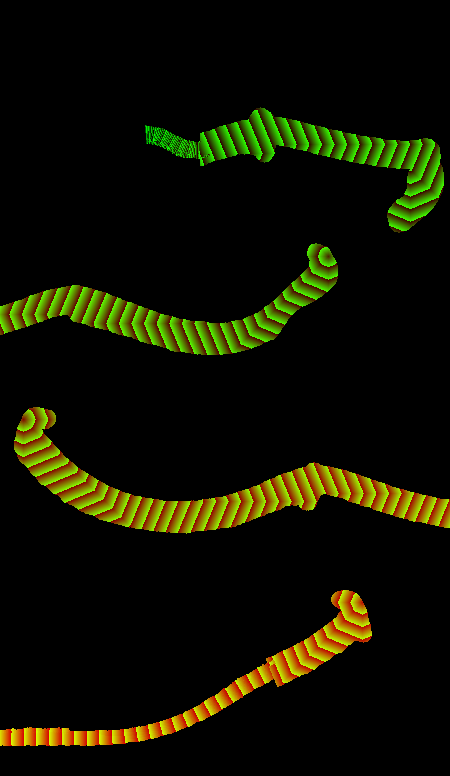
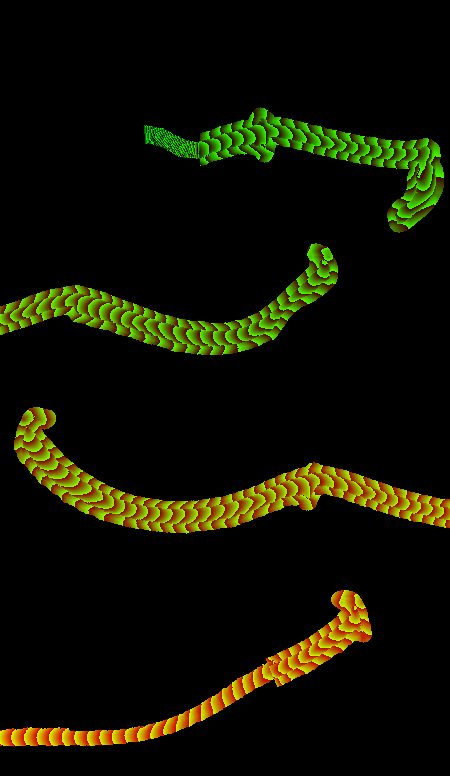
Tutto chiaro e monocromatico; capo tondo per il filo di lana
Claude-Session: https://claude.ai/code/session_01K8S9kDcMmADtdHMs7poTsz

diff --git a/assets/js/cuciture.js b/assets/js/cuciture.js
@@ -5,7 +5,7 @@
    cucitura sale nello schermo. La prima parte da sinistra, dove esce il filo della matassa.
    Il filo e' disegnato su un canvas con la lana vera della foto (assets/img/matassa/lana.webp:
    una striscia di filo dritto, lungo il filo in orizzontale, 2 righe per pixel di
-   traverso), stesa a fettine lungo un'onda diversa per ogni cucitura.
+   traverso), stesa a fettine lungo un'onda diversa per ogni cucitura; il capo e' tondo.
    Con prefers-reduced-motion il filo e' gia' tutto. */
 (function () {
   'use strict';
@@ -38,8 +38,11 @@
     if (!w || !lana.naturalWidth) return;
     var dpr = Math.min(2, window.devicePixelRatio || 1);
     s.larga = w;
-    s.c.width = Math.round(w * dpr); s.c.height = Math.round(ALTO * dpr);
-    var ctx = s.c.getContext('2d');
+    // il filo intero si stende su un canvas fuori pagina; quello visibile ne mostra un pezzo
+    if (!s.tela) s.tela = document.createElement('canvas');
+    s.tela.width = s.c.width = Math.round(w * dpr); s.tela.height = s.c.height = Math.round(ALTO * dpr);
+    s.clip = null;
+    var ctx = s.tela.getContext('2d');
     ctx.setTransform(1, 0, 0, 1, 0, 0);
     ctx.clearRect(0, 0, s.c.width, s.c.height);
     var spesso = (w < 640 ? 10 : 13) * dpr;            // spessore del filo sullo schermo
@@ -48,6 +51,7 @@
     var L = lana.naturalWidth, Hs = lana.naturalHeight, P = L - GIUNTA - 2 * MARGINE;
     var lambda = s.onda * Math.max(w, 700) * dpr, A = s.ampiezza * dpr, mezzo = ALTO * dpr / 2;
     function y(x) { return mezzo + A * Math.sin(2 * Math.PI * x / lambda + s.fase) + s.pendenza * dpr * (x / (w * dpr) - 0.5); }
+    s.y = y; s.raggio = spesso / 2 + dpr;
     var x = -30 * dpr, fine = (w + 30) * dpr, u = 0, px = x, py = y(x);
     while (x < fine) {
       // un passo di 1 px lungo il filo
@@ -69,15 +73,30 @@
     ctx.setTransform(1, 0, 0, 1, 0, 0);
   }
 
+  // il capo del filo e' tondo: si mostra il filo fino al capo piu' un cerchio largo quanto il filo
   function svela(s) {
+    if (!s.tela) return;
     var p = 1;
     if (!ridotto) {
       var b = s.el.getBoundingClientRect(), vh = window.innerHeight;
       p = Math.min(1, Math.max(0, (vh * 0.95 - b.top) / (vh * 0.55)));
     }
-    var resto = ((1 - p) * 100).toFixed(2) + '%';
-    var clip = s.verso === 'dx' ? 'inset(0 ' + resto + ' 0 0)' : 'inset(0 0 0 ' + resto + ')';
-    if (s.clip !== clip) { s.clip = clip; s.c.style.clipPath = s.c.style.webkitClipPath = clip; }
+    var chiave = p.toFixed(4);
+    if (s.clip === chiave) return;
+    s.clip = chiave;
+    var W = s.c.width, H = s.c.height, ctx = s.c.getContext('2d');
+    ctx.clearRect(0, 0, W, H);
+    if (p <= 0) return;
+    if (p >= 1) { ctx.drawImage(s.tela, 0, 0); return; }
+    var capo = s.verso === 'dx' ? W * p : W * (1 - p);
+    ctx.save();
+    ctx.beginPath();
+    if (s.verso === 'dx') ctx.rect(0, 0, capo, H); else ctx.rect(capo, 0, W - capo, H);
+    ctx.moveTo(capo + s.raggio, s.y(capo));
+    ctx.arc(capo, s.y(capo), s.raggio, 0, Math.PI * 2);
+    ctx.clip();
+    ctx.drawImage(s.tela, 0, 0);
+    ctx.restore();
   }
 
   var attesa = false;

diff --git a/index.html b/index.html
@@ -20,7 +20,7 @@
 <link rel="preload" as="font" type="font/woff2" href="assets/fonts/jost-300-latin.woff2" crossorigin>
 <link rel="preload" as="font" type="font/woff2" href="assets/fonts/cormorant-garamond-300-latin.woff2" crossorigin>
 <link rel="preload" as="font" type="font/woff2" href="assets/fonts/cormorant-garamond-300-italic-latin.woff2" crossorigin>
-<link rel="stylesheet" href="assets/css/site.css?v=20261003c">
+<link rel="stylesheet" href="assets/css/site.css?v=20261003e">
 <!-- senza JavaScript il calendario e il menu non funzionano: meglio non mostrarli -->
 <noscript><style>[data-ics],.burger{display:none!important}</style></noscript>
 </head>
@@ -100,7 +100,7 @@
   </div>
 </header>
 
-<section class="block dark notte" id="festival" data-world="dark">
+<section class="block paper" id="festival" data-world="paper">
   <div class="cucitura" aria-hidden="true"></div>
   <div class="wrap article" style="grid-template-columns:1fr">
     <div>
@@ -232,7 +232,7 @@
   </div>
 </section>
 
-<section class="block dark notte" id="programma" data-world="dark">
+<section class="block paper" id="programma" data-world="paper">
   <div class="cucitura" aria-hidden="true"></div>
   <div class="wrap">
     <div class="head rv"><div><p class="eyebrow">Programma</p><h2>Tre <em>giorni</em></h2></div><p class="lede">Tre giorni alla Pescheria Nuova, a ingresso libero. Alcune cose restano aperte per tutta la durata del festival, le altre hanno il loro orario.</p></div>
@@ -344,7 +344,7 @@
   </div>
 </section>
 
-<section class="block dark notte" id="info" data-world="dark">
+<section class="block paper" id="info" data-world="paper">
   <div class="cucitura" aria-hidden="true"></div>
   <div class="wrap">
     <div class="head rv"><div><p class="eyebrow">Info</p><h2>Informazioni <em>pratiche</em></h2></div></div>
@@ -494,7 +494,7 @@
   </div>
 </section>
 
-<section class="block dark notte call-band" id="sostieni" data-world="dark">
+<section class="block paper call-band" id="sostieni" data-world="paper">
   <div class="cucitura" aria-hidden="true"></div>
   <div class="wrap">
     <div class="call rv">
@@ -571,8 +571,8 @@
 </footer>
 
 <!-- prima la matassa: se c'e', site.js non disegna il filo colorato dell'apertura -->
-<script src="assets/js/matassa.js?v=20261003c" defer></script>
-<script src="assets/js/site.js?v=20261003c" defer></script>
-<script src="assets/js/cuciture.js?v=20261003c" defer></script>
+<script src="assets/js/matassa.js?v=20261003e" defer></script>
+<script src="assets/js/site.js?v=20261003e" defer></script>
+<script src="assets/js/cuciture.js?v=20261003e" defer></script>
 </body>
 </html>

diff --git a/assets/css/site.css b/assets/css/site.css
@@ -1242,3 +1242,12 @@ body.carta.menu-open .nav.solid{background:var(--paper);border-color:var(--paper
 .cucitura--dentro canvas{top:calc(50% - 50px)}
 .cucitura--dentro + .head-ospiti{margin-top:0}
 .block + .block:has(> .cucitura){border-top:0}
+
+/* ===== PRO-FILI: tutto chiaro e monocromatico (3/10) =====
+   Niente fasce scure ne' filo a colori fra gli artisti: l'unico colore della pagina,
+   oltre al logo, e' la lana delle cuciture. Le schede degli artisti accese restano oro. */
+body.carta #artisti .thread > svg{display:none}
+/* le sezioni le divide la lana: niente riga sotto l'apertura */
+body.carta .matassa ~ .page-hero{border-bottom:0}
+body.carta .person[data-tinta].is-lit,body.carta .person[data-tinta]:focus-visible{--accent:var(--gold-d);--accent-2:var(--gold-d2)}
+@media (hover:none){body.carta .person[data-tinta] .role{color:var(--accent)}}
